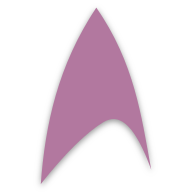
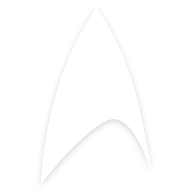
21
21

Changed region(s): [[0.1875, 0.0312, 0.8125, 0.9688]]

diff --git a/pano-styles.css b/pano-styles.css
@@ -43,7 +43,7 @@
 .psv-loader {
   position: relative;
   text-align: center;
-  color: #B2789F;
+  color: #fff;
   width: 150px;
   height: 150px;
   border: 10px solid transparent;

diff --git a/pano-styles.scss b/pano-styles.scss
@@ -1,5 +1,5 @@
 $psv-main-background: #000;
-$psv-loader-color: #B2789F;
+$psv-loader-color: #fff;
 
 
 @import './node_modules/photo-sphere-viewer/src//styles/index.scss';
